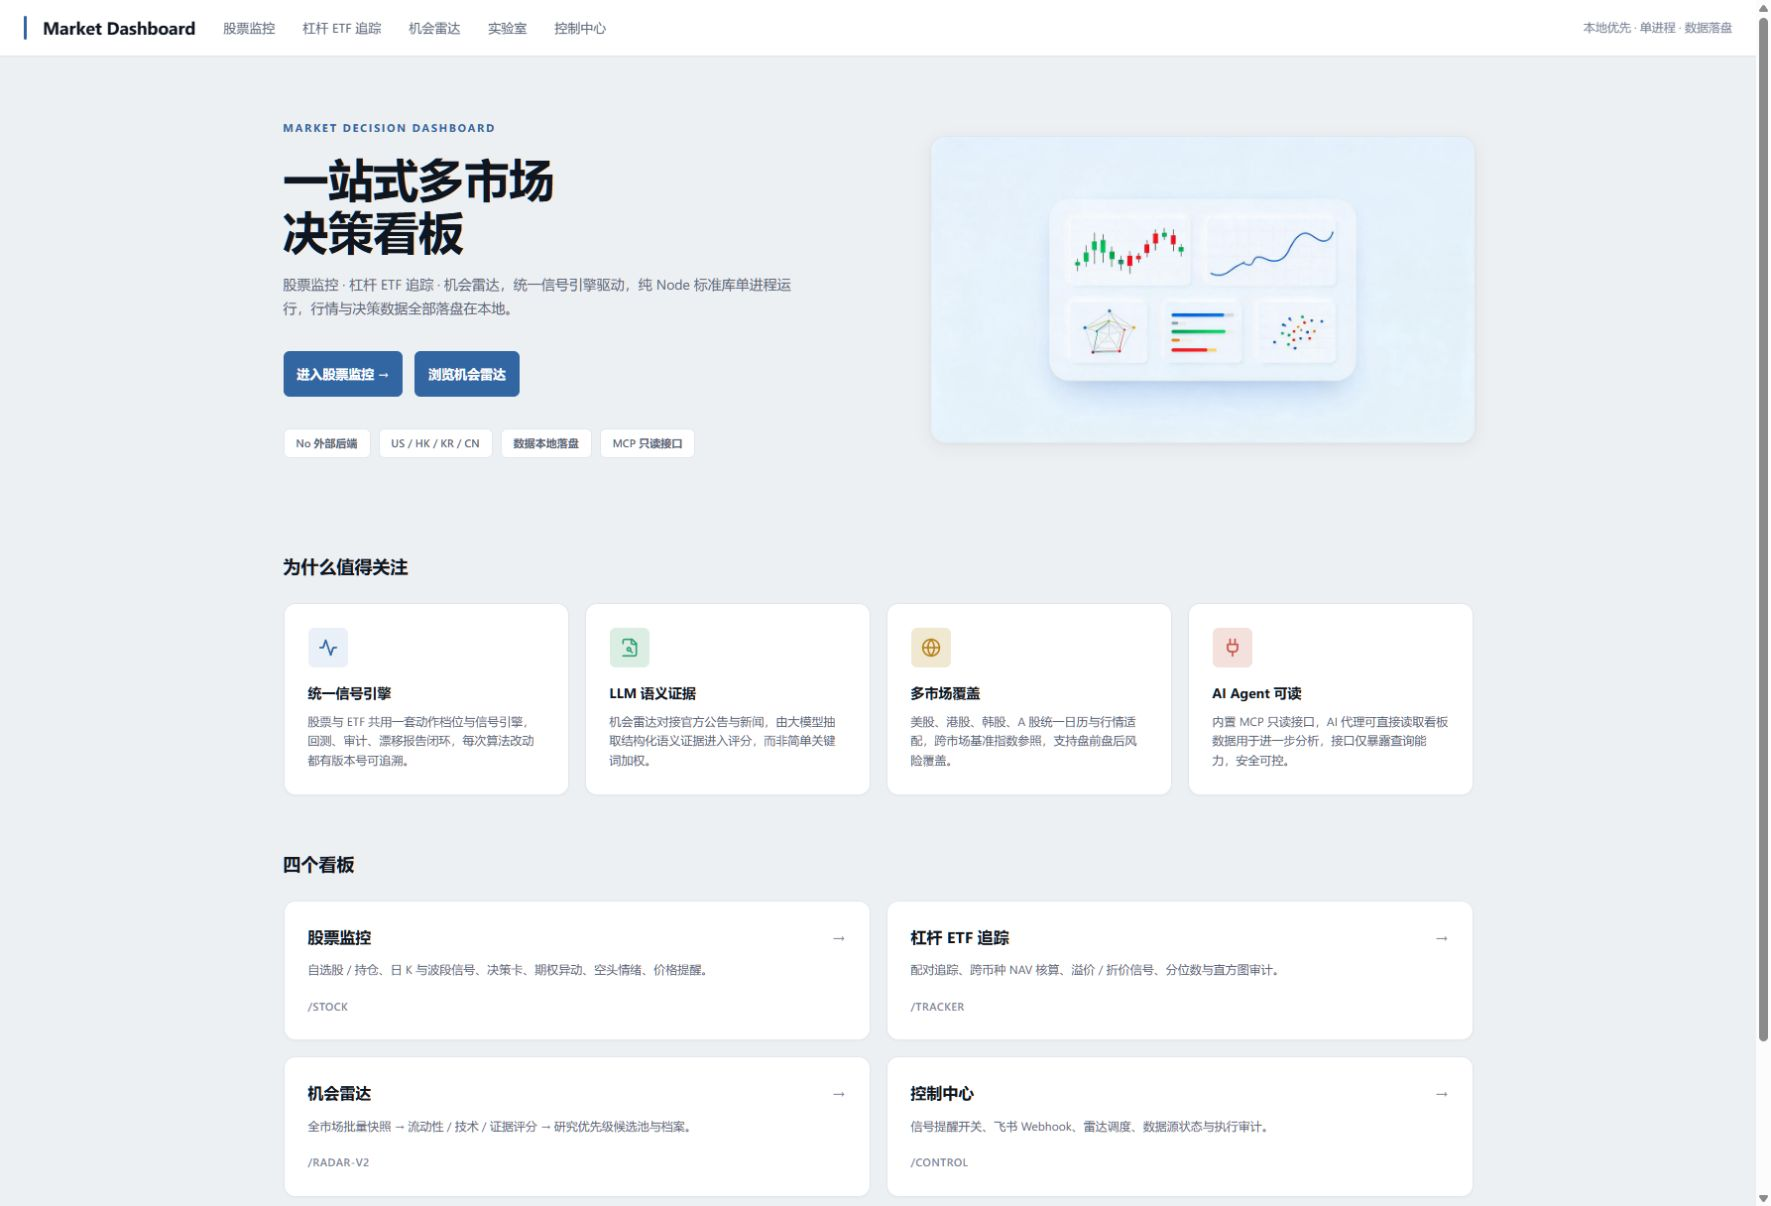
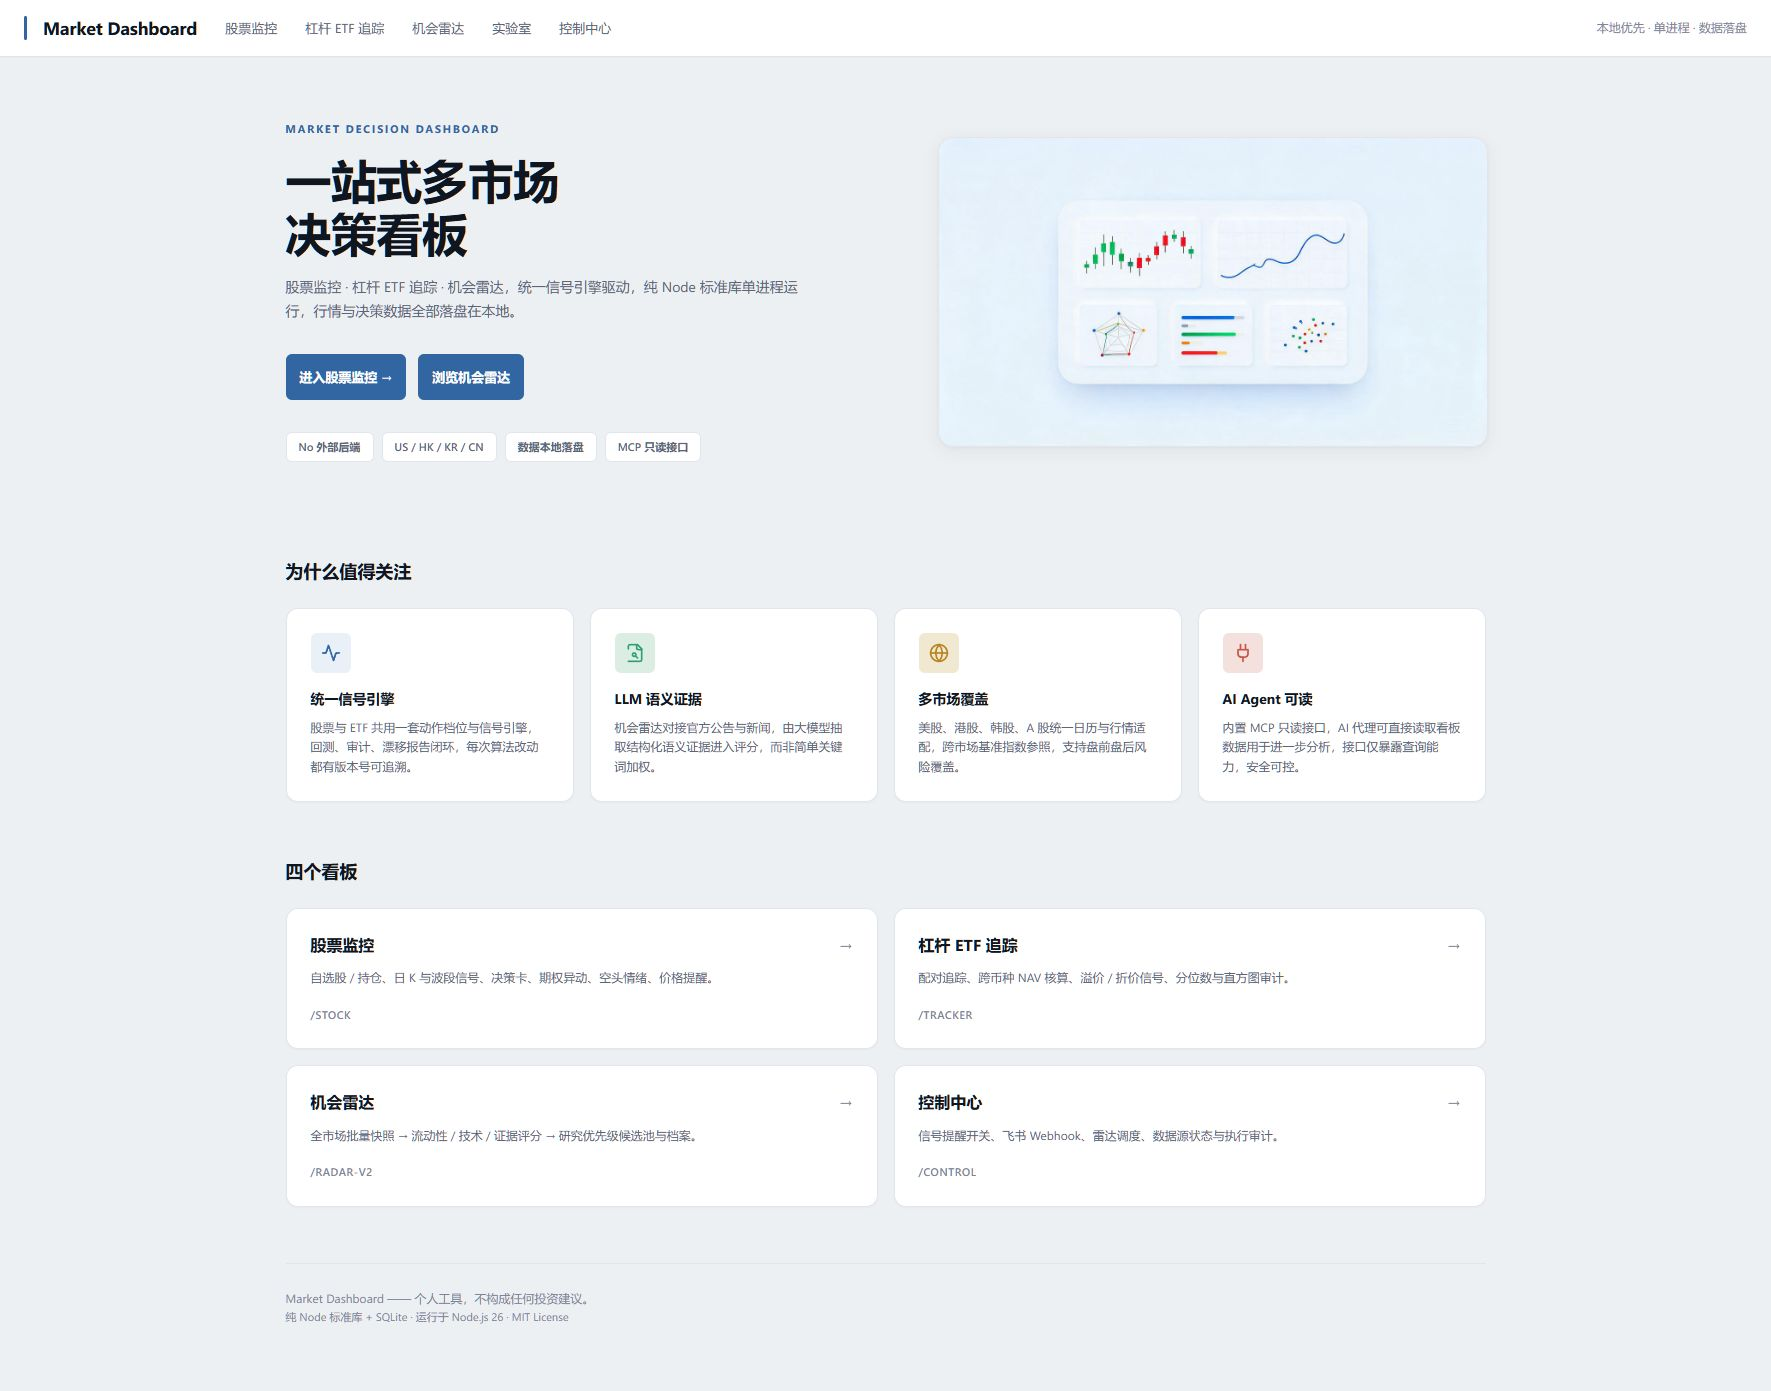
docs: use live public demo screenshots

diff --git a/README.md b/README.md
@@ -32,23 +32,23 @@ Market Dashboard 是一个帮助个人投资者整理信息、跟踪自选股并
 
 ## 演示截图
 
-下列截图使用完全虚构的演示数据，只用于说明界面与工作流程，不代表真实行情、投资观点或预期收益。
-
-### 股票监控
-
-![股票监控界面（演示数据）](docs/images/stock-monitoring.png)
+下列均为公开版实际页面截图，所有个股、ETF 和研究档案均为虚构的 `Demo*` 样本，只用于说明功能与工作流程，不代表真实行情、投资观点或预期收益。
 
 ### 首页
 
 ![Market Dashboard 首页](docs/images/home-local-first.png)
 
-### 机会雷达研究档案
+### 股票监控
 
-![机会雷达研究档案](docs/images/radar-archive.png)
+![股票监控界面（虚构演示数据）](docs/images/stock-monitoring.png)
 
-### 机会雷达候选池
+### 杠杆 ETF 追踪
 
-![机会雷达候选池](docs/images/radar-candidate-pool.png)
+![杠杆 ETF 追踪界面（虚构演示数据）](docs/images/leveraged-etf-tracking.png)
+
+### 机会雷达
+
+![机会雷达候选池（虚构演示数据）](docs/images/radar-candidate-pool.png)
 
 ## 如何开始
 

diff --git a/docs/images/README.md b/docs/images/README.md
@@ -15,3 +15,4 @@ Use this directory only for images that are safe to publish. Screenshots are opt
 - `radar-archive.png`: fictional Radar research archive. / 虚构数据的研究档案库。
 - `home-local-first.png`: public local-first home page. / 公开版的本地优先首页。
 - `stock-monitoring.png`: fictional stock-monitoring detail view. / 虚构数据的股票监控详情页。
+- `leveraged-etf-tracking.png`: fictional leveraged ETF tracking view. / 虚构数据的杠杆 ETF 追踪页。
